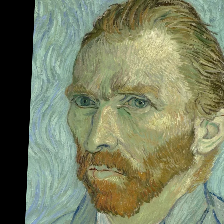
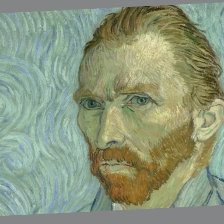
Add example generation script

diff --git a/examples.py b/examples.py
@@ -1,0 +1,81 @@
+import os
+import cv2
+from typing import cast, Optional
+
+from simple_parsing import ArgumentParser
+
+from RetinaFace.detector import RetinaFace
+from utils.training.example_arguments import ExampleArguments
+from utils.training.image_processing import align_warp_face
+
+
+def process_one_image(
+    source_image: str,
+    aligned_folder: str,
+    face_detector: RetinaFace,
+    final_crop_size: int,
+):
+    print(f"Processing image {source_image}.")
+    image = cv2.imread(source_image, cv2.IMREAD_COLOR)
+    image_name = os.path.splitext(os.path.basename(source_image))[0]
+
+    save_path = os.path.join(aligned_folder, f"{image_name}.png")
+    os.makedirs(aligned_folder, exist_ok=True)
+
+    detected_faces = face_detector(image, threshold=0.99, return_dict=True, cv=True)
+    if len(detected_faces) == 0:
+        raise ValueError(f"No face detected in source image {source_image}.")
+
+    cropped_face = align_warp_face(image, detected_faces[0]["kps"])
+    cropped_face = cv2.resize(cropped_face, (final_crop_size, final_crop_size))
+    print(f"Saving cropped face to {save_path}.")
+    cv2.imwrite(save_path, cropped_face)
+
+
+def process(
+    source_image: Optional[str],
+    source_folder: Optional[str],
+    aligned_folder: str,
+    face_detector: RetinaFace,
+    final_crop_size: int,
+):
+    if source_image is None and source_folder is None:
+        raise ValueError("Arguments 'source_image' and 'source_folder' cannot be both empty.")
+
+    if source_folder is None:
+        if not os.path.exists(source_image):
+            raise ValueError(f"Arguments 'source_image' {source_image} points to a file that does not exist.")
+
+        process_one_image(source_image, aligned_folder, face_detector, final_crop_size)
+    else:
+        if not os.path.exists(source_folder):
+            raise ValueError(f"Arguments 'source_folder' {source_folder} points to a folder that does not exist.")
+    
+        print(f"Processing images in folder {source_folder}.")        
+        for dirpath, _, source_folder_images in os.walk(source_folder):
+            for source_folder_image in source_folder_images:
+                process_one_image(os.path.join(dirpath, source_folder_image), aligned_folder, face_detector, final_crop_size)
+
+
+def main(args: ExampleArguments):
+    face_detector = RetinaFace(
+        gpu_id=args.device_id,
+        fp16=True,
+        model_path=args.retina_face_model_path
+    )
+
+    process(
+        args.source_image,
+        args.source_folder,
+        args.aligned_folder,
+        face_detector,
+        args.final_crop_size
+    )
+
+
+if __name__ == "__main__":
+    parser = ArgumentParser()
+    parser.add_arguments(ExampleArguments, dest="arguments")
+    args = cast(ExampleArguments, parser.parse_args().arguments)
+    
+    main(args)

diff --git a/utils/training/example_arguments.py b/utils/training/example_arguments.py
@@ -1,0 +1,21 @@
+import os
+from typing import Optional
+from dataclasses import dataclass
+
+def make_real_path(relative_path):
+    return os.path.join(os.path.dirname(os.path.realpath(__file__)), "../..", relative_path)
+
+@dataclass
+class ExampleArguments:
+
+    """ Data arguments """
+    source_image: Optional[str] = None
+    source_folder: Optional[str] = None
+    aligned_folder: str = make_real_path("./examples/images/training")
+
+    """ Model arguments """
+    retina_face_model_path: str = make_real_path("./weights/RetinaFace/Resnet50_Final.safetensors")
+
+    """ Run arguments """
+    device_id: int = 0
+    final_crop_size: int = 224
